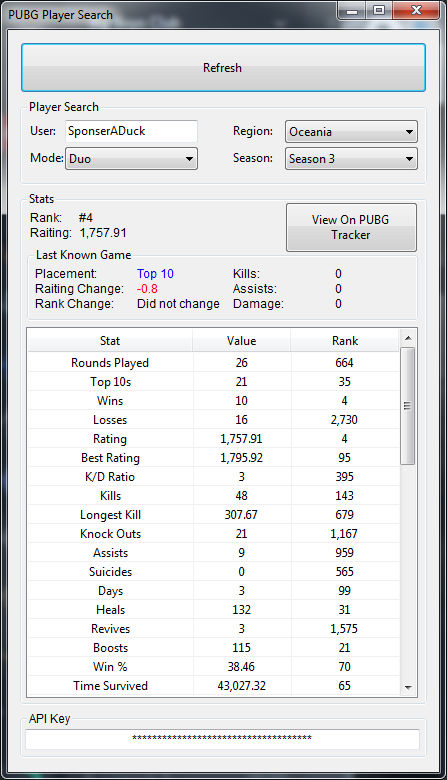
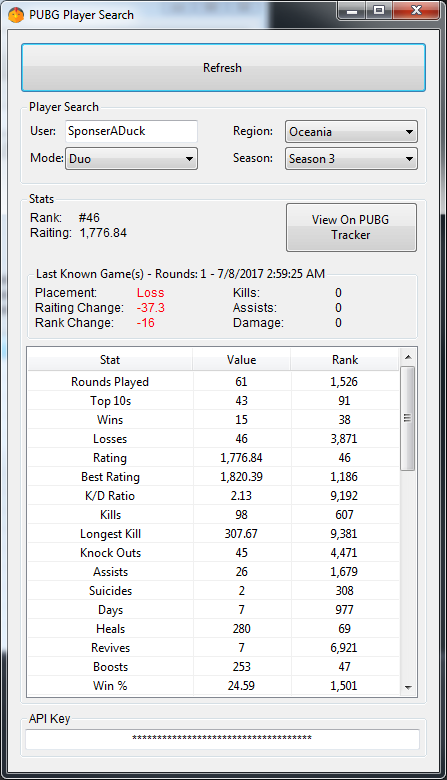
Added last Known Games(s)
Now shows how many rounds were counted and what time it was updated in
your local time.

diff --git a/PUBG Player Search/Form1.cs b/PUBG Player Search/Form1.cs
@@ -36,10 +36,10 @@ namespace PUBG_Player_Search
             SetStat("LastDamage", "");
             LoadSettings();
         }
-
+        
         public async void RunStats()
         {
-            if (UserBox.Text == "")
+            if (UserBox.Text == "" || APIKeyBox.Text == "")
                 return;
 
             var previousButtonText = RefreshButton.Text;
@@ -62,6 +62,7 @@ namespace PUBG_Player_Search
 
                 try
                 {
+                    #region StatShit
                     var region = WhatRegion();
                     var mode = WhatMode();
                     var season = WhatSeason();
@@ -125,6 +126,8 @@ namespace PUBG_Player_Search
                     var PreviousGamePlacement = player.MatchHistory.Find(x => x.Mode == mode && x.Region == region).Top10;
                     var PreviousGameDamage = player.MatchHistory.Find(x => x.Mode == mode && x.Region == region).Damage;
                     var PreviousGameWin = player.MatchHistory.Find(x => x.Mode == mode && x.Region == region).Wins;
+                    var LastUpdatedMatchHistory = player.MatchHistory.Find(x => x.Mode == mode && x.Region == region).Updated.ToLocalTime();
+                    var LastUpdatedMatchHistoryRounds = player.MatchHistory.Find(x => x.Mode == mode && x.Region == region).Rounds;
 
                     if (PreviousGameRankChange < 0)
                     {
@@ -166,7 +169,7 @@ namespace PUBG_Player_Search
 
                     var winString = "";
 
-                    if (PreviousGameWin == 1)
+                    if (PreviousGameWin == 1 && PreviousGamePlacement == 1)
                     {
                         winString = "Winner!";
                         LastPlacement.ForeColor = Color.DarkGreen;
@@ -207,6 +210,8 @@ namespace PUBG_Player_Search
                             break;
 
                     }
+
+                    groupBox1.Text = string.Format("Last Known Game(s) - Rounds: {1} - {0}", LastUpdatedMatchHistory, LastUpdatedMatchHistoryRounds);
 
                     SetStat("Raiting", Raiting.Value.AddSeperators());
                     SetStat("LastPlacement", winString);
@@ -266,21 +271,25 @@ namespace PUBG_Player_Search
                     AddItemToListView(AverageRideDistance);
                     AddItemToListView(DamageDealt);
                     AddItemToListView(DBNOs);
+                    #endregion
                 }
                 catch (PUBGSharpException ex) { }
                 catch (NullReferenceException) { }
 
                 RefreshButton.Enabled = true;
-                RefreshButton.Text = previousButtonText;
+                RefreshButton.Text = "Refresh";
 
-                // Create a request for the URL. 		
-                WebRequest request = WebRequest.Create($"https://pubgtracker.com/history/pc/{UserBox.Text}");
-                // If required by the server, set the credentials.
-                request.Credentials = CredentialCache.DefaultCredentials;
-                // Get the response.
-                HttpWebResponse response = (HttpWebResponse)request.GetResponse();
-                // Cleanup the streams and the response.
-                response.Close();
+                if (player != null)
+                {
+                    // Create a request for the URL. 		
+                    WebRequest request = WebRequest.Create($"https://pubgtracker.com/history/pc/{UserBox.Text}");
+                    // If required by the server, set the credentials.
+                    request.Credentials = CredentialCache.DefaultCredentials;
+                    // Get the response.
+                    HttpWebResponse response = (HttpWebResponse)request.GetResponse();
+                    // Cleanup the streams and the response.
+                    response.Close();
+                }
             }
         }
 

diff --git a/PUBG Player Search/Form1.Designer.cs b/PUBG Player Search/Form1.Designer.cs
@@ -173,12 +173,12 @@
             this.groupBox1.Controls.Add(this.LastRaitingChange);
             this.groupBox1.Controls.Add(this.LastRankChange);
             this.groupBox1.Controls.Add(this.label8);
-            this.groupBox1.Location = new System.Drawing.Point(7, 56);
+            this.groupBox1.Location = new System.Drawing.Point(7, 75);
             this.groupBox1.Name = "groupBox1";
             this.groupBox1.Size = new System.Drawing.Size(391, 74);
             this.groupBox1.TabIndex = 15;
             this.groupBox1.TabStop = false;
-            this.groupBox1.Text = "Last Known Game";
+            this.groupBox1.Text = "Last Known Game(s)";
             // 
             // LastPlacement
             // 
@@ -315,9 +315,9 @@
             this.Value,
             this.Rank});
             this.listView1.GridLines = true;
-            this.listView1.Location = new System.Drawing.Point(6, 136);
+            this.listView1.Location = new System.Drawing.Point(6, 155);
             this.listView1.Name = "listView1";
-            this.listView1.Size = new System.Drawing.Size(392, 371);
+            this.listView1.Size = new System.Drawing.Size(392, 352);
             this.listView1.TabIndex = 9;
             this.listView1.TabStop = false;
             this.listView1.UseCompatibleStateImageBehavior = false;
